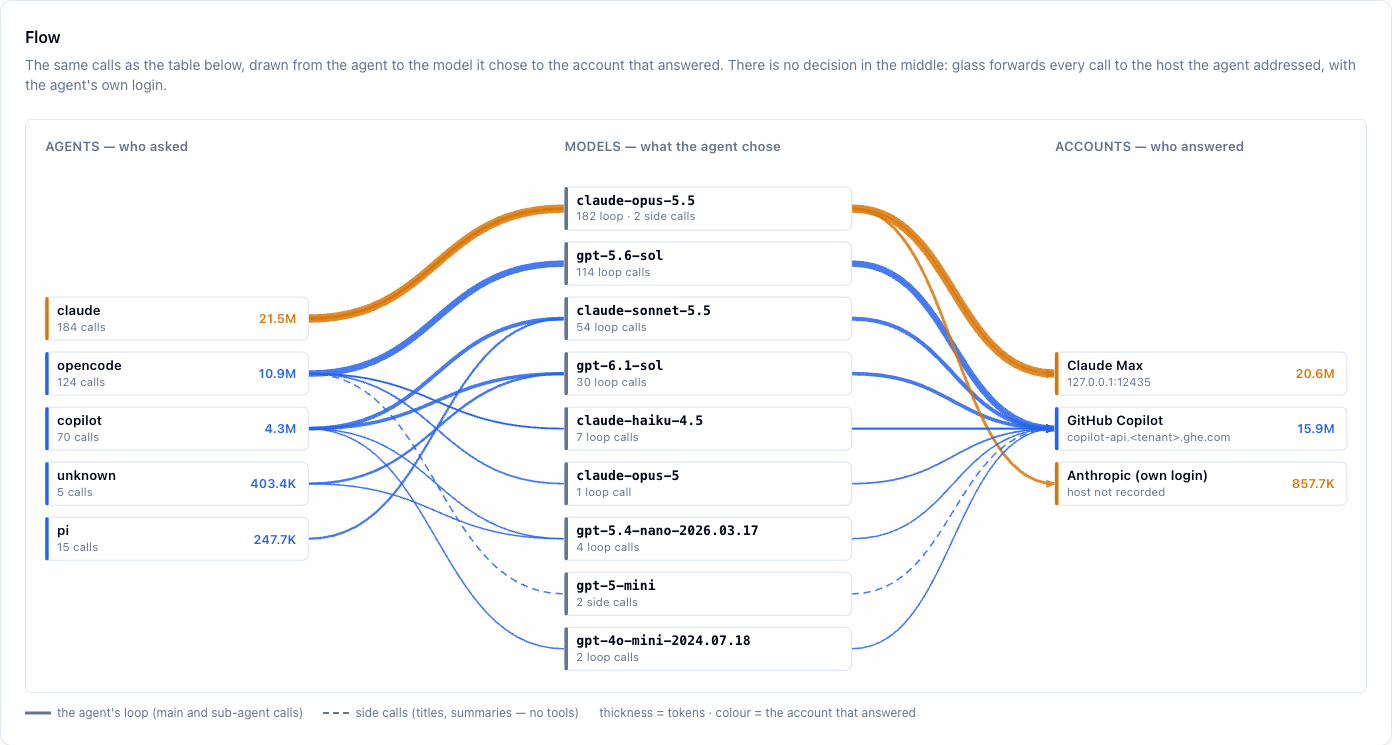
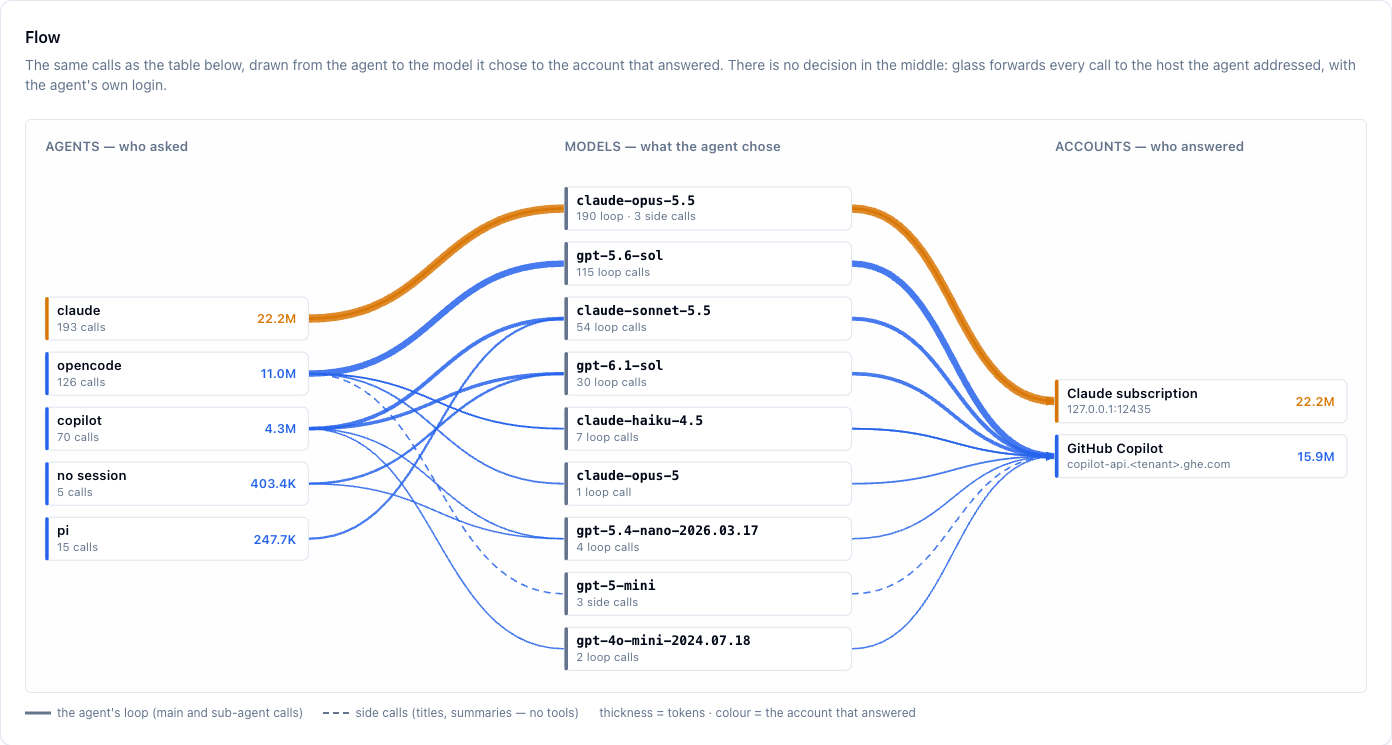
fix(glass): 0.1.26 — Claude login kind, "no session" calls, on-prem Qwen, live status-line shot
- The base-URL forward recorded every claude call as provider `anthropic`.
  It now records the login kind from which header carries it (x-api-key →
  anthropic-api, bearer → anthropic), never the credential. The UI shows
  anthropic / claude-code / claude-code-max as one "Claude subscription".
- Calls the daemon measured but could not tie to a session show as
  "no session" instead of agent "unknown".
- Offload slide and docs: on-prem Qwen cluster.
- terminal-statusline-tmux.png: a real capture of `glass claude` in tmux
  with the current status bar and the ctx popup open.

diff --git a/integrations/system-health-dashboard/glass-ui/models.tsx b/integrations/system-health-dashboard/glass-ui/models.tsx
@@ -50,9 +50,18 @@ const fmtTokens = (n: number | null | undefined) => {
   return String(v)
 }
 
-// In glass `anthropic` is the claude CLI's own login (Max or an API key — glass
-// cannot tell), not coding's Max account the shared alias maps it to.
-const answeredBy = (provider: string) => (provider === 'anthropic' ? 'Anthropic (own login)' : accountLabel(provider))
+// In glass, claude answers with the claude CLI's own login. The daemon records
+// its kind (lib/glass/daemon.mjs): `anthropic` = a bearer login, i.e. a Claude
+// subscription (Max or Pro — the wire does not say which), `anthropic-api` = an
+// x-api-key. An LLM proxy in between names the account (`claude-code-max`), and
+// rows from claude's own transcript say `claude-code`: all one subscription.
+// Before 0.1.26 an API-key login was recorded as `anthropic` too.
+const CLAUDE_SUBSCRIPTION = new Set(['anthropic', 'claude-code', 'claude-code-max'])
+const answeredBy = (provider: string) =>
+  (CLAUDE_SUBSCRIPTION.has(provider) ? 'Claude subscription' : accountLabel(provider))
+
+// A call the daemon measured but could not tie to a glass session has no agent.
+const agentLabel = (agent: string) => (!agent || agent === 'unknown' ? 'no session' : agent)
 
 const KIND: Record<CallKind, { label: string; title: string; className: string }> = {
   main: { label: 'main', title: 'Sent tool definitions: the agent\'s own loop', className: 'bg-primary/10 text-foreground' },
@@ -288,7 +297,7 @@ export function ModelsPage() {
             </CardDescription>
           </CardHeader>
           <CardContent>
-            <ModelFlow groups={rows} answeredBy={answeredBy} />
+            <ModelFlow groups={rows} answeredBy={answeredBy} agentLabel={agentLabel} />
           </CardContent>
         </Card>
       )}
@@ -326,7 +335,7 @@ export function ModelsPage() {
               <TableBody>
                 {rows.map((g) => (
                   <TableRow key={`${g.agent}|${g.model}|${g.provider}|${g.upstream}|${g.call_kind}`} data-kind={g.call_kind || 'unrecorded'}>
-                    <TableCell><Badge variant="secondary" className="text-xs">{g.agent || '—'}</Badge></TableCell>
+                    <TableCell><Badge variant="secondary" className="text-xs" title={agentLabel(g.agent) === 'no session' ? 'Measured, but not tied to a glass session — see the note below the table' : undefined}>{agentLabel(g.agent)}</Badge></TableCell>
                     <TableCell className="font-mono text-xs">{normalizeModel(g.model)}</TableCell>
                     <TableCell><KindBadge kind={g.call_kind} /></TableCell>
                     <TableCell className="text-xs">{answeredBy(g.provider)}</TableCell>

diff --git a/integrations/system-health-dashboard/glass-ui/flow.tsx b/integrations/system-health-dashboard/glass-ui/flow.tsx
@@ -27,6 +27,8 @@ interface Props {
   groups: FlowGroup[]
   /** The account's display name — the Models table's "Answered by". */
   answeredBy: (provider: string) => string
+  /** The agent's display name — the Models table's "Agent". */
+  agentLabel: (agent: string) => string
 }
 
 const W = 1120
@@ -59,7 +61,7 @@ interface Edge { from: string; to: string; tokens: number; side: boolean; color:
 
 function addTo<K>(m: Map<K, number>, k: K, v: number) { m.set(k, (m.get(k) ?? 0) + v) }
 
-export function ModelFlow({ groups, answeredBy }: Props) {
+export function ModelFlow({ groups, answeredBy, agentLabel }: Props) {
   const [hover, setHover] = useState<string | null>(null)
 
   const g = useMemo(() => {
@@ -77,7 +79,7 @@ export function ModelFlow({ groups, answeredBy }: Props) {
 
     for (const r of groups) {
       const t = tokensOf(r)
-      const agent = `a:${r.agent || '—'}`
+      const agent = `a:${agentLabel(r.agent)}`
       const model = `m:${normalizeModel(r.model) || '—'}`
       // By the account that answered, not the provider spelling: rows say both
       // `github-copilot` and `gh-copilot` for one Copilot login.
@@ -124,7 +126,7 @@ export function ModelFlow({ groups, answeredBy }: Props) {
     }))
     const max = Math.max(1, ...[...left.values()].map((e) => e.tokens))
     return { agents, models, accounts, left: [...left.values()], right: [...right.values()], max }
-  }, [groups, answeredBy])
+  }, [groups, answeredBy, agentLabel])
 
   if (!groups.length) return null
 

diff --git a/glass/overlay/docs/_tiers/models.deep.md b/glass/overlay/docs/_tiers/models.deep.md
@@ -17,8 +17,11 @@ the wire, show **not recorded** and **—**. glass does not guess them afterward
   agent asked for. When the agent talks to an LLM proxy that picks the model itself, the
   answering model can differ from the request. The card shows what was actually used.
 - **Answered by** is the account. For calls through such a proxy it is the account the proxy
-  names in its response (`x-llm-provider`), not the proxy's own name. **Anthropic (own
-  login)** is Claude Code's own login: a subscription or an API key. glass cannot tell which.
+  names in its response (`x-llm-provider`), not the proxy's own name. For Claude Code,
+  **Claude subscription** is a sign-in with a Claude plan (Max or Pro — the request does
+  not say which) and **Anthropic API (metered)** is an API key. glass tells them apart by
+  which header carries the login, never by reading it. Before glass 0.1.26 both were
+  recorded the same way and show as Claude subscription.
 - Side calls are usually cheap but frequent: titles, summaries, prompt checks on a small
   model. The headline's share of tokens tells you whether they matter in a session.
 - **Newest calls, one by one** lists the last 200 calls of the session with their kind and
@@ -30,7 +33,7 @@ The **Flow** card on the Models tab draws the same rows as the table, in three c
 
 | Column | Node | Number on the node |
 |---|---|---|
-| **Agents** — who asked | one per agent (`unknown` = calls glass could not tie to an agent) | tokens, calls |
+| **Agents** — who asked | one per agent; **no session** = calls glass measured but could not tie to a session (see below) | tokens, calls |
 | **Models** — what the agent chose | one per model, split into loop and side calls | — |
 | **Accounts** — who answered | one per account, with the hosts its calls went to | tokens |
 
@@ -46,9 +49,9 @@ coding's dashboard has a flow with the same left and right columns and a decisio
 the middle — the router choosing an account per call. glass has no router, so the middle
 column is the models the agent itself picked.
 
-## Local offload — planned, not in this release
+## On-prem offload — planned, not in this release
 
-Where a local Qwen3.8-27B cluster is available, the next phase (G8)
+Where an on-prem Qwen3.8-27B cluster is available, the next phase (G8)
 lets glass hand **some** calls to it — **opt-in, off by default**. What is decided so far,
 from measurements with coding's own router against that cluster:
 
@@ -60,7 +63,7 @@ from measurements with coding's own router against that cluster:
 | Fallback | the original call, unchanged, to the host the agent addressed, with the agent's own login — what glass does today. Your GitHub or Anthropic credentials never reach the cluster. |
 | Trade-off | Qwen answers small calls in ~2–10 s against ~1–2 s on Copilot: offload saves paid tokens, not time. |
 
-With the option on, the Models flow would show offloaded calls arriving at a local account
+With the option on, the Models flow would show offloaded calls arriving at an on-prem account
 node; with it off, glass stays exactly as described on this page.
 
 ## Calls without a session
@@ -68,14 +71,15 @@ node; with it off, glass stays exactly as described on this page.
 Below the session table, glass counts the calls it measured but could not bind to a
 session. That happens when an intercepted request names no session and more than one
 intercepting session is open. glass never guesses which session such a call belongs to.
-These calls count in **Token Usage** but not in any session row.
+These calls count in **Token Usage** but not in any session row; on the Models tab their
+agent shows as **no session**.
 
 ## Why glass does not route
 
 coding, the project glass is extracted from, has a router that moves calls between accounts
 and to local models. glass leaves that out on purpose: the agent keeps its own login, model
 catalogue and routing, and glass only measures. This card shows the agent's own choices
-for the same reason. The one planned exception is the opt-in local offload above.
+for the same reason. The one planned exception is the opt-in on-prem offload above.
 
 ## Reading it programmatically
 

diff --git a/glass/overlay/docs/overview.md b/glass/overlay/docs/overview.md
@@ -114,9 +114,9 @@ glass ui                # in another terminal
 </div>
 <figure class="overview-figure" markdown="1">
 
-[![Claude Code running through glass in tmux, with a context gauge and session token counts in the bottom status bar.](images/terminal-statusline-tmux.png)](images/terminal-statusline-tmux.png){: target="_blank" rel="noopener" title="Open full-size screenshot" }
+[![Claude Code running through glass in tmux after three prompts: the status bar at the bottom, and the context popup a click on its ctx field opens: bytes per part of the latest turn and every turn's prompt size and cache hit.](images/terminal-statusline-tmux.png)](images/terminal-statusline-tmux.png){: target="_blank" rel="noopener" title="Open full-size screenshot" }
 
-<figcaption>The status bar gives live context and token counts. With tmux, click a field for details. Without it, use <code>glass watch</code> in a split pane; Claude Code also has its own status line.</figcaption>
+<figcaption>The status bar gives live context and token counts. With tmux, click a field for details (here: <strong>ctx</strong>). Without it, use <code>glass watch</code> in a split pane; Claude Code also has its own status line.</figcaption>
 </figure>
 <p class="overview-takeaway" markdown="1">
 No Docker or build tools. [Installation and platform details](getting-started.md)
@@ -238,7 +238,7 @@ For one session, select its row in **Sessions**: the same view, call by call.
 </div>
 <figure class="overview-figure" markdown="1">
 
-[![Models flow over 7 days: claude to claude-opus-5.5 to Claude Max; opencode, copilot and pi to several models, all answered by GitHub Copilot; side calls dashed.](images/ui-models-flow.png)](images/ui-models-flow.png){: target="_blank" rel="noopener" title="Open full-size screenshot" }
+[![Models flow over 7 days: claude to claude-opus-5.5 to the Claude subscription; opencode, copilot and pi to several models, all answered by GitHub Copilot; side calls dashed.](images/ui-models-flow.png)](images/ui-models-flow.png){: target="_blank" rel="noopener" title="Open full-size screenshot" }
 
 <figcaption>A week on one machine. No decision in the middle: every model here is one the agent chose; glass measures, it does not route.</figcaption>
 </figure>
@@ -253,9 +253,9 @@ Know which model you are paying for before you switch one.
 
 <p class="overview-kicker">Planned / Opt-in, off by default</p>
 
-## Small calls to the local Qwen cluster {#overview-offload}
+## Small calls to the on-prem Qwen cluster {#overview-offload}
 
-Next, glass can hand **some** calls to a local Qwen3.8-27B cluster instead of a paid account.
+Next, glass can hand **some** calls to an on-prem Qwen3.8-27B cluster instead of a paid account.
 
 **What moves:** small calls only, such as session titles and side calls. An agent's first
 turn carries 20–28k tokens of tools and instructions; the cluster needs ~40–55 s for
@@ -281,7 +281,7 @@ your own login. Your credentials never reach the cluster.
 </figure>
 <p class="overview-takeaway" markdown="1">
 Not in this release. With it off, glass is exactly what the previous slides show.
-[Models & Accounts → Local offload](models.md)
+[Models & Accounts → On-prem offload](models.md)
 </p>
 </section>
 

diff --git a/.planning/glass.md b/.planning/glass.md
@@ -910,6 +910,7 @@ Uses coding's own install unchanged — no glass code yet. On VPN:
    tool-result turns never classified; (e) vetoed as code → stays on the paid account.
 
 ## Session log
+- **2026-10-13 (0.1.26 — Claude login kind, no-session label, on-prem wording, live status-line shot)** — user asked why "Anthropic (own login)" and "unknown" appear. (1) The 8 `anthropic` rows (2026-10-10 06:49) are the Max subscription: the base-URL forward hard-coded `provider: 'anthropic'` for every claude call, before 0.1.10 also behind coding's proxy. Now the daemon records the login KIND from which header carries it (x-api-key → `anthropic-api`, bearer → `anthropic`), never the credential; the UI shows `anthropic` / `claude-code` / `claude-code-max` as one "Claude subscription" account. (2) The 5 `unknown` rows (2026-10-10 11:27) are a copilot run that outlived the 0.1.5 → 0.1.6 daemon upgrade (all sessions closed 10:43:43Z): its credential was unknown to the new daemon, which never guesses — the UI now says "no session". (3) Offload slide/docs say on-prem Qwen cluster. (4) `terminal-statusline-tmux.png` is a real Terminal.app capture (title bar cropped) of `glass claude` after three prompts on a throwaway demo project, with the ctx popup opened via `glass click g:ctx` — the current terminal-coloured bar, not the old green one.
 - **2026-10-13 (0.1.25 — Models flow, ten-slide overview)** — glass Models tab gains a Flow card (agent → model → answering account, tokens as thickness, side calls dashed; no decision column — glass does not route), screenshot with the tenant host masked. Overview: slide 7 shows the flow, new slide 8 "Small calls to the local Qwen cluster" marked planned (G8, opt-in, off by default — glass still does not offload), new slide 10 "Extracted, not rewritten" (`glass-composition.puml`: 11.9k lines from coding incl. 3.9k vendored js-yaml, 5.4k from the proxy, 2.3k glass-only ≈ 12%). Models deep tier: reading the flow + the planned offload. coding's Flow (Token Usage → Routing) underlays the parts glass also carries (`src/lib/glass-scope.ts`: fg-chat/<agent> callers, claude-code-max + gh-copilot).
 - **2026-10-12 (0.1.24 — copilot BYOK not recounted)** — the shared copilot token adapter subtracts BYOK calls (`session.usage_record.isByok`) from the session aggregate, because in coding BYOK is the proxy and those calls are already rows (8 duplicate rows from the two five-prompt runs, deleted). glass passes `byokMetered: false`: a BYOK provider there is the user's own, so its calls stay counted under --no-intercept. Also in this release: rapid-llm-proxy #53/#54 (foreground offload limits; glass does not route, so no behaviour change).
 - **2026-10-12 (0.1.23 — copilot relay under --no-intercept; data-flow overview)** — `glass opencode --no-intercept` keeps relaying `github-copilot` (no HTTPS_PROXY, no CA); the opencode file adapter is skipped for such a session (`skipped (github-copilot relayed)`) since github-copilot is the only provider it imports — no double count (live: 2 rows, once each). Added "Data flow per agent — coding vs glass": coding routes 3 of 4 (claude never), glass measures all 4 and can offload only opencode.

diff --git a/glass/overlay/docs/models.md b/glass/overlay/docs/models.md
@@ -27,7 +27,7 @@ agent's own loop rather than side requests.
     chose, to the account that answered. Edge thickness is tokens; dashed edges are side
     calls. Hover a node to isolate its paths.
 
-    ![Flow over 7 days: claude to claude-opus-5.5 to Claude Max; opencode, copilot and pi to several models, all answered by GitHub Copilot; side calls dashed](images/ui-models-flow.png)
+    ![Flow over 7 days: claude to claude-opus-5.5 to the Claude subscription; opencode, copilot and pi to several models, all answered by GitHub Copilot; side calls dashed](images/ui-models-flow.png)
 
     There is no decision in the middle: every edge is a choice the agent made, and glass
     forwarded the call to the host the agent addressed.

diff --git a/glass/overlay/docs/status-line.md b/glass/overlay/docs/status-line.md
@@ -15,7 +15,7 @@ Context gauge and session tokens, live, in the terminal you work in.
     | `↑ ↓ ⚡` | session tokens sent / received, cache share | the session in the UI |
     | `N:` | egress: `direct` or via `proxy` | network report |
 
-    ![Status line in tmux](images/terminal-statusline-tmux.png)
+    ![Status line in tmux, with the popup a click on ctx opens](images/terminal-statusline-tmux.png)
 
     With tmux it is the bar at the bottom; without tmux Claude Code shows it as its own
     status line, and `glass watch` shows it for any agent.

diff --git a/glass/overlay/docs/_tiers/status-line.deep.md b/glass/overlay/docs/_tiers/status-line.deep.md
@@ -5,7 +5,7 @@
 Inside an existing tmux session, glass sets the bar on that session for the run and
 restores it afterwards.
 
-![Status line in tmux](images/terminal-statusline-tmux.png)
+![Status line in tmux, with the popup a click on ctx opens](images/terminal-statusline-tmux.png)
 
 **Without tmux** — native Windows, or `--no-tmux` / `GLASS_NO_TMUX=1`:
 
